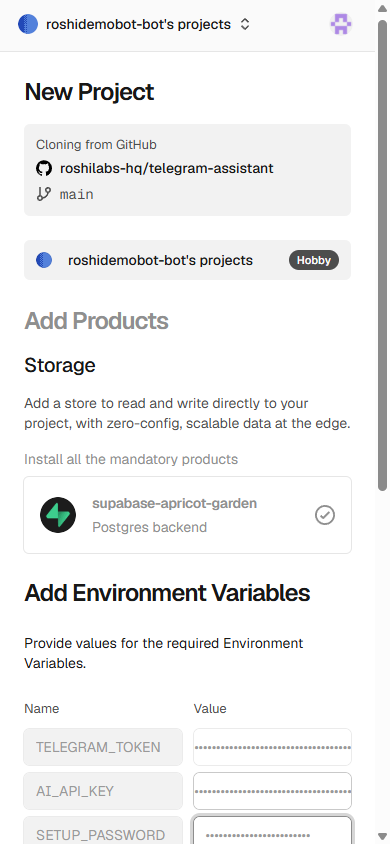
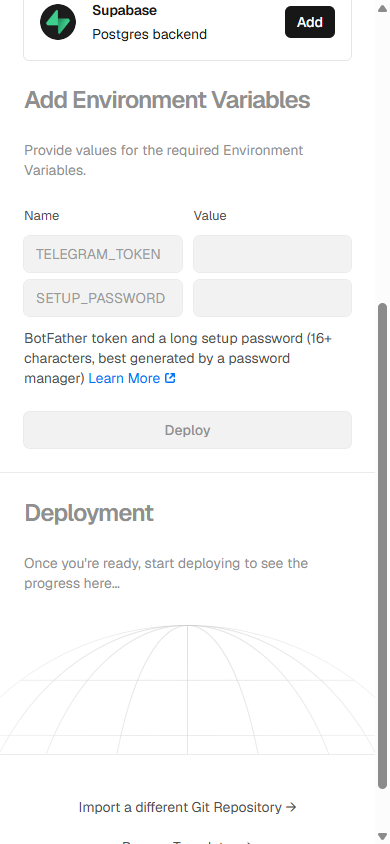
1.5.1: say-hello step green only after earlier steps, bidi fix in brain panel, preview brain state, new screenshots

diff --git a/api/setup.js b/api/setup.js
@@ -213,7 +213,7 @@ function actionPanel(check, checks, ctx) {
   if (check === "brain") {
     // מפתח שהוגדר ב-Vercel גובר. אז נשאר רק לבדוק אותו.
     if (env.aiKey()) return btn("check_ai", "🧠 בדיקת המפתח");
-    return `<p>מדביקים כאן את המפתח של Claude (מתחיל ב-<span dir="ltr">sk-ant-</span>). הוא נבדק מול Claude ונשמר רק אצלך, במסד של הבוט.</p>
+    return `<p>מדביקים כאן את המפתח של Claude. הוא מתחיל ב: <bdi dir="ltr">sk-ant-</bdi>. הוא נבדק מול Claude ונשמר רק אצלך, במסד של הבוט.</p>
 <form method="post"><input type="hidden" name="action" value="save_ai_key">
 <label for="ak">המפתח של Claude</label><input id="ak" name="ai_key" type="password" autocomplete="off" spellcheck="false" dir="ltr" placeholder="sk-ant-..." required>
 <button type="submit">🧠 שמירה ובדיקה</button></form>`;
@@ -296,7 +296,8 @@ function dashboard({ checks, settings, bot, url }, errors) {
   const rows = all
     .map((s) => {
       const st = stepStatus(s.check, checks);
-      const ok = s.check === "none" ? checks.owner?.ok : st.ok;
+      // שלב בלי בדיקה (ההודעה הראשונה) ירוק רק כשכל מה שלפניו ירוק
+      const ok = s.check === "none" ? !nextShown && checks.owner?.ok : st.ok;
       const isNext = !ok && !nextShown;
       if (isNext) nextShown = true;
       const parts =

diff --git a/CHANGELOG.md b/CHANGELOG.md
@@ -4,6 +4,11 @@
 
 גרסה לפי שובר.תוספת.תיקון. מספר ראשון שעולה = שינוי שדורש פעולה ממך.
 
+## 1.5.1 — 25.10.2026
+**תוקן (נבדק על הבוט החי)**
+- בעמוד ההקמה, השלב "שולחים הודעה ראשונה" כבר לא מסומן ✅ לפני שהוספת לבוט מוח.
+- הטקסט "מתחיל ב-sk-ant-" לא מתהפך יותר בטלפון. צילומי מסך חדשים לשלב המוח ולטופס של Vercel עם שני שדות.
+
 ## 1.5.0 — 25.10.2026
 **חדש: "המוח בסוף" בדרך מהדפדפן**
 - מעלים את הבוט בלי מפתח של Claude: בטופס של Vercel יש רק שני שדות. כרטיס האשראי בא רק בסוף, אחרי שהבוט כבר באוויר ומחובר אליך.
